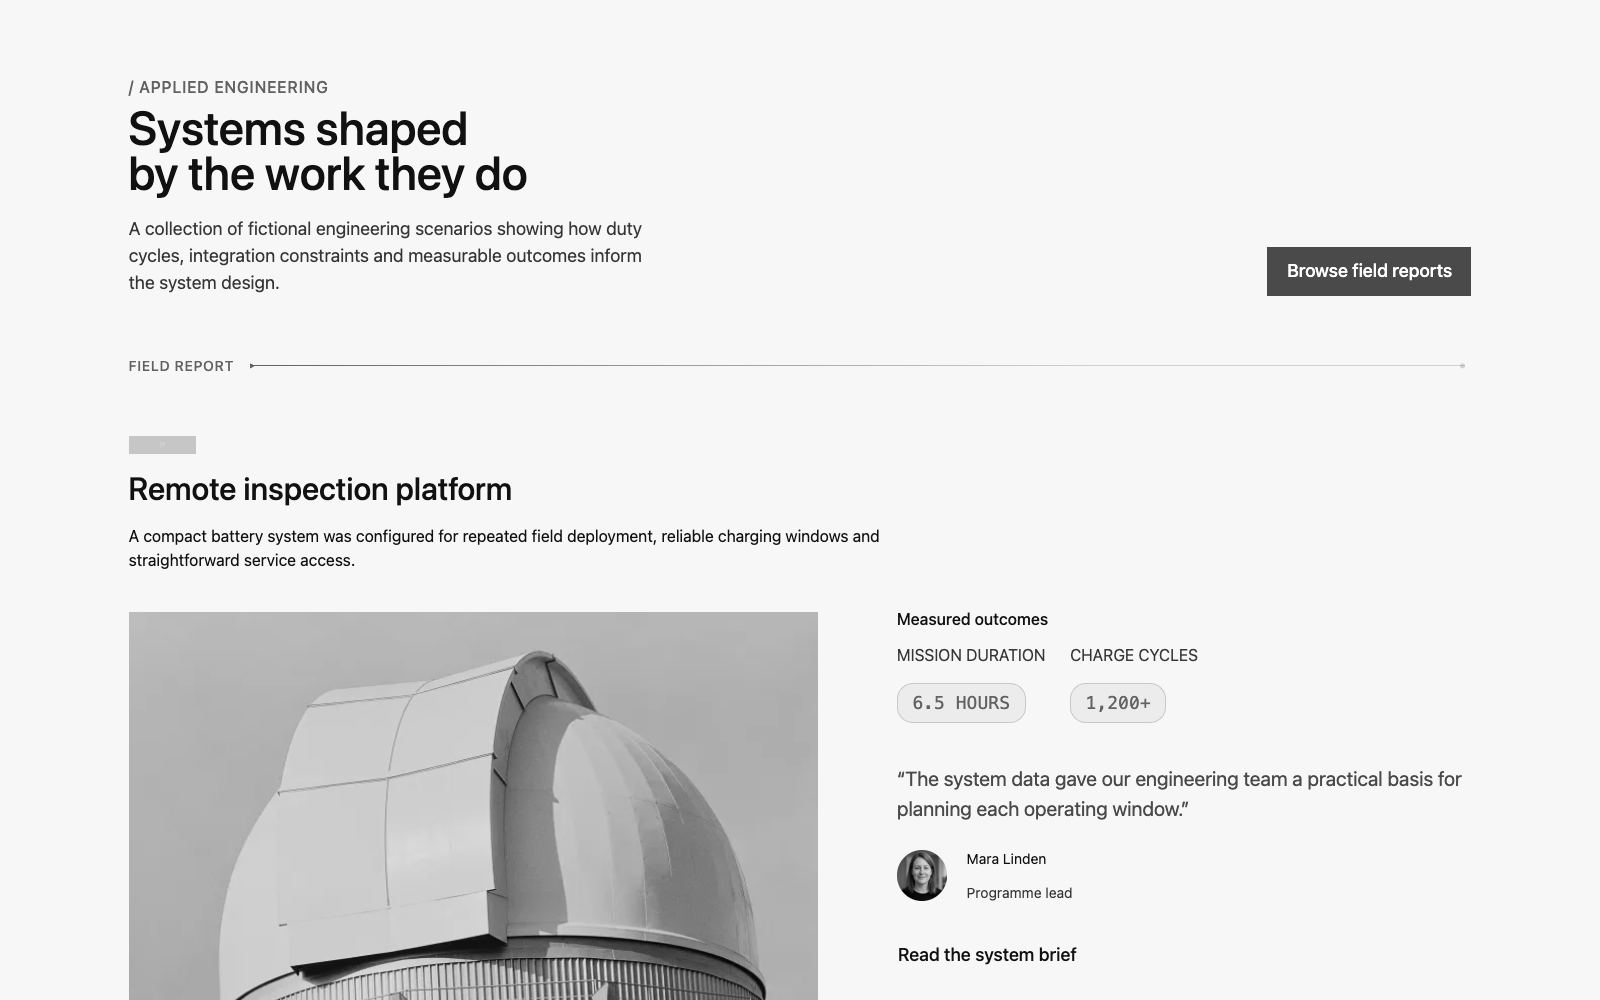
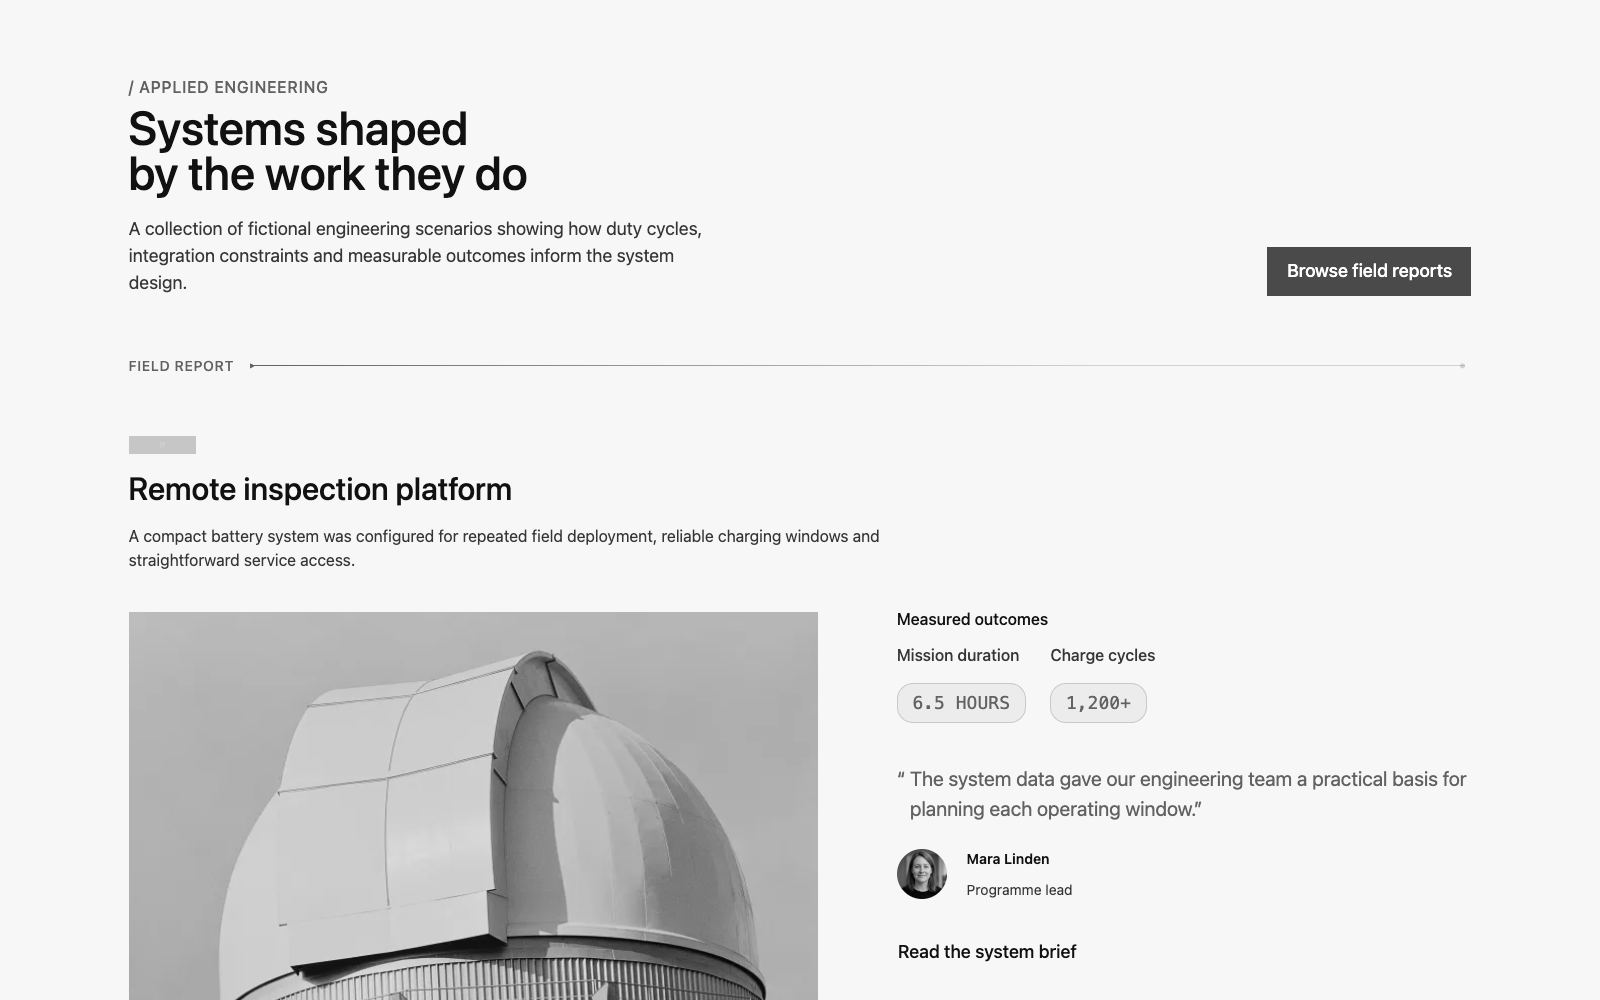
fix: preserve product option content links and refine section styling

diff --git a/src/sections/product-options/allentown/product-options-allentown.payload.ts b/src/sections/product-options/allentown/product-options-allentown.payload.ts
@@ -73,7 +73,7 @@ function formToProps(value: PayloadProductOptionsAllentownDocument['form']): Pro
 
 export function betaProductOptionsAllentownToProps(data: PayloadProductOptionsAllentownDocument, options: PayloadAdapterOptions = {}): ProductOptionsAllentownContent {
   const intro = requireObject(data.intro, 'intro')
-  const ctas = ctaGroupToProps(data.ctas, 'ctas')
+  const ctas = ctaGroupToProps(data.ctas, 'ctas', options)
   const form = formToProps(data.form)
 
   return {

diff --git a/CHANGELOG.md b/CHANGELOG.md
@@ -31,8 +31,11 @@
 - Expose Steps Stage item descriptions as native Payload rich text instead of textareas, matching the existing rich-text renderer and stored editor data.
 - Use `primary-light` for both Homepage Problem Solution intros and reusable item descriptions in dark and semi-dark, and `primary` for Read More descriptions in semi-light.
 - Size Form Section intro headings one visual level below their semantic tag. Use theme-aware contact text and accent icons, token-based large contact headings with 1.2 line height, and a divider between the form and contact list.
-- Let Density Comparison intros and headings fill their container, size table headers with `h5`, and alternate full/half-opacity theme-aware backgrounds in the middle comparison column.
-- Place Featured Insights' section CTA below the recent articles, retaining mobile access. Render supplied `kindIcon` names as accent-colored SVGs, use explicit card text classes, and give recent descriptions theme-aware primary colors.
+- Let Density Comparison intros and headings fill their container, size table headers with `h5`, and alternate full/half-opacity theme-aware backgrounds in middle-column data cells only. Heading cells stay transparent and all value icons use the theme accent.
+- Place Featured Insights' section CTA below the recent articles, retaining mobile access. Render supplied `kindIcon` names as accent-colored SVGs, use explicit card text classes, and give featured/recent descriptions the same theme-aware primary colors.
+- Align Solution List's direct callout with the list inside one content container, add a dedicated larger callout separation, and use the theme accent for item accent headings.
+- Cap the Case Studies intro at 60ch; use theme-aware descriptions, mixed-case medium labels, hanging/inline accent quotation marks, and tighter semibold-name/regular-role attribution. Avoid duplicated outer quote marks in authored text.
+- Forward the published-content resolver into Product Options CTA groups so valid internal links no longer exclude their containing page from a static build.
 - Correct the Product Hero Allentown design reference to [Hero Section - Battery Packs](https://www.figma.com/design/7rHrxb3twyBvPo9QxkOBly/KSW-1-Tulip-Tech-Website?node-id=5255-538028&t=OtYEVTRRdAJJYQ0v-11); content fields and rendering are unchanged.
 
 ## 26.10.2-beta.25 — 2026-10-23
